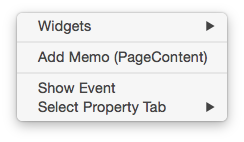
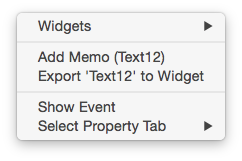
update export widget

diff --git a/basic_canvas.rst b/basic_canvas.rst
@@ -1,6 +1,7 @@
 .. _메모 패널 : ./panel_memo.html
 .. _이벤트 패널 : ./panel_event.html
 .. _속성 탭 : ./basic_top_toolbar.html#tab-menu
+.. _위젯 내보내기 패널 : ./panel_export_widget.html
 
 
 캔버스 Canvas
@@ -19,7 +20,7 @@
 
 .. image:: resource/iu_manual_canvas_context_single.png
 
-위젯을 선택한 상태이거나, 캔버스 상에서 우클릭을 하여 컨텍스트 메뉴를 호출할 수 있습니다. 
+위젯을 선택한 상태이거나, 캔버스 상에서 우클릭을 하면, 컨텍스트 메뉴를 호출할 수 있습니다. 
 
 
 * ``위젯 Widget`` : 현재 마우스 포인터 위치에 있는 모든 위젯을 보여주어 선택을 손쉽게 할 수 있도록 도와줍니다.
@@ -27,6 +28,7 @@
 .. image:: resource/iu_manual_canvas_context_single_widget.png
 
 * ``메모 추가 Add Memo`` : 현재 선택된 위젯에 메모를 추가할 수 있는 `메모 패널`_ 을 불러옵니다.
+* ``위젯 내보내기 Export to Widget`` : 현재 선택된 위젯을 커스텀 위젯 Custom Widget 으로 만들 수 있는 `위젯 내보내기 패널`_ 을 호출합니다.
 * ``이벤트 보기 Show Event`` : 현재 선택된 위젯에 연결된 이벤트를 수정 / 추가 할 수 있는 `이벤트 패널`_ 을 불러옵니다.
 * ``탭 선택  Select Tab`` : 원하는 `속성 탭`_ 으로 바로 이동합니다.
 
@@ -41,7 +43,7 @@
 
 .. image:: resource/iu_manual_canvas_context_multi.png
 
-복수의 위젯을 선택한 상태에서 우클릭을 하여 컨텍스트 메뉴를 호출할 수 있습니다. 
+복수의 위젯을 선택한 상태에서 우클릭을 하면, 컨텍스트 메뉴를 호출할 수 있습니다. 
 
 
 * ``정럴 Align`` : 현재 선택된 위젯들을 정렬하는 기능입니다. ** 좌측 정렬 Align Left, 중앙 정렬 Align Center, 우측 정렬 Align Right, 상단 정렬 Align Top, 세로 중앙 정렬 Align Middle, 하단 정렬 Align Bottom** 이 있습니다.

diff --git a/panel_import_widget.rst b/panel_import_widget.rst
@@ -1,8 +1,8 @@
 
 
-임포트 위젯 패널 Import Widget Panel
+위젯 불러오기 패널 Import Widget Panel
 ==============================
 
-임포트 위젯 패널은 아이유에디터 메뉴 Project > Custom Widget 항목을 활성화 시키면 등장합니다. 사용자가 Export 한 커스텀 위젯 Custom Widget 파일을 캔버스에 추가할 때 사용됩니다. 그리드 뷰 / 테이블 뷰 2가지 뷰가 지원되며, 우측에는 커스텀 위젯의 상세 정보가 보여집니다. 우측 상단의 버튼으로 상세 화면을 열고 닫을 수 있습니다. 
+위젯 불러오기 패널은 아이유에디터 메뉴 Project > Custom Widget 항목을 활성화 시키면 등장합니다. 사용자가 Export 한 커스텀 위젯 Custom Widget 파일을 캔버스에 추가할 때 사용됩니다. 그리드 뷰 / 테이블 뷰 2가지 뷰가 지원되며, 우측에는 커스텀 위젯의 상세 정보가 보여집니다. 우측 상단의 버튼으로 상세 화면을 열고 닫을 수 있습니다. 
 
 .. image:: resource/iu_manual_panel_import_widget.png

diff --git a/panel_export_widget.rst b/panel_export_widget.rst
@@ -1,0 +1,8 @@
+
+
+위젯 내보내기 패널 Export Widget Panel
+==============================
+
+위젯 내보내기 패널은 **1) 스트럭쳐나 캔버스에서 특정 위젯을 선택하여 컨텍스트 메뉴를 호출하거나, 2) 페이지를 선택하여 컨텍스트 메뉴를 호출하여** 불러올 수 있습니다. 
+
+.. image:: resource/iu_manual_panel_export_widget.png
